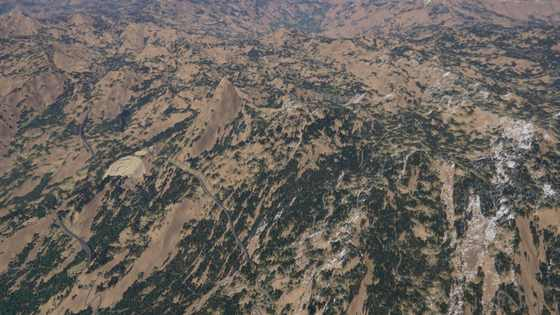
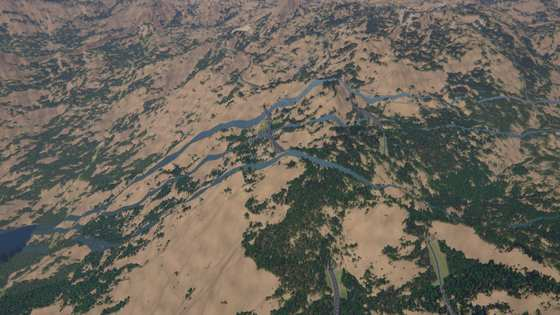
transport: stills (network, mountain motorway, interchange, lake, river crossing, river bridge, roundabout, forest roads, switchbacks), docs (routing, decisions, places, tests, timing, known limits), CHANGELOG

diff --git a/crates/terragen/src/kits/transport/tests.rs b/crates/terragen/src/kits/transport/tests.rs
@@ -1313,6 +1313,23 @@ fn stamps_near() {
         let g = geodesy::ecef2geodetic(st.center, &w.ell);
         eprintln!("stamp {} at ({:.5}, {:.5})", st.template, g.lat.to_degrees(), g.lon.to_degrees());
     }
+    // the segments near the point
+    let c = ecef(&w, v[0], v[1]);
+    for sg in f.segs.iter().filter(|sg| net::chord_dist(sg.a, sg.b, c) < 120.0) {
+        let g = geodesy::ecef2geodetic(c, &w.ell);
+        let t = w.terrain(&crate::world::Ctx::new(g.lat, g.lon, 5.0, &w.ell));
+        eprintln!(
+            "seg kind {} flags {:#x} deck {:.1} {:.1} at {:.0} m; ground {:.1} water {:.1} kind {}",
+            sg.kind - cls::KIND0,
+            sg.flags,
+            sg.deck_a,
+            sg.deck_b,
+            net::chord_dist(sg.a, sg.b, c),
+            t.ground,
+            t.water,
+            t.water_kind
+        );
+    }
     // interchange ramps: their centroids, in clusters of 1.5 km
     let mut cl: Vec<(DVec3, usize)> = Vec::new();
     for sg in f.segs.iter().filter(|s| s.kind == cls::KIND0 + cls::RAMP as u32) {

diff --git a/crates/terragen/src/kits/transport.rs b/crates/terragen/src/kits/transport.rs
@@ -3,7 +3,8 @@
 //! §6.3, §6.4, P2/P3; `docs/kits/transport.md`).
 //!
 //! * [`net`]: the graph (relative-neighbourhood graphs of places per network, track ends).
-//! * [`route`]: routing an edge over the analytic relief (corridor DP, smoothing, switchbacks).
+//! * [`route`]: routing an edge through its scene (the relief with the valleys carved in, lakes,
+//!   reservoirs, the sea, river crossings, site footprints; corridor DP, smoothing, switchbacks).
 //! * [`build`]: the features of an area: engineered profiles (cut and fill, bridges, tunnels),
 //!   segments, interchanges, roundabouts, stations, yards, roads and lines to the sites.
 //! * [`px`]: the looks per sample (shared by slot 6 and slot 8).

diff --git a/docs/kits/transport.md b/docs/kits/transport.md
@@ -47,8 +47,9 @@ edge has a *scene* of host knowledge along its corridor, the same on both backen
   basins of the streams, level 2, for minor roads); the cold kit's kettle and thermokarst lakes
   of its large lattice (its `lake_mask` estimated from pass A's values and the relief's slope);
   the settlements kit's reservoirs (below). Standing water costs 25–60 per metre on top of the
-  length, the sea 10–40; each step also measures its chord inside the lakes' outlines, so a
-  coarse step does not jump a lake between two dry nodes.
+  length, the sea 10–40; each step also measures its chord inside the lakes' outlines and,
+  where it is ≥ 300 m long and near a lake or reservoir, probes points along it, so a coarse
+  step does not jump a lake between two dry nodes.
 * **River crossings** (levels 0–1, in each level's meander-warped space): a cost per crossing
   of 100 m (tracks) … 600 m (motorways, railways) plus 12 per metre of bridge (the channel's
   width over the sine of the crossing angle, ≥ 0.25): few crossings, near perpendicular, and no
@@ -210,7 +211,13 @@ slot 7, the stamp look in the stamp loop, the deck look (`tr_deck_px`) in slot 8
 transport segment or stamp in the bin; per segment the distance to it before any look; slot 8
 only on rivers and water. The host routes an edge once (memoized per edge, per edge pair, per
 deck sample); a city's 25 km disc at 30 m pixels (some 100 k segments of all classes, profiles,
-crossings) takes 10–17 s on one CPU core the first time.
+crossings) takes 10–17 s on one CPU core the first time. Routing (`routing_time`: every edge
+near 8 regions, 10 km discs at 30 m pixels, cold caches, one farm core, both runs side by side):
+3480 routes in 22.8 s (6.5 ms each) before the water and sites, 4029 routes in 44.9 s (11.1 ms)
+now — 1.7× per route, and 16 % more edges per area from the wider deviation bound (the second
+try's 600 m, entries 600 m off the chord). Of it, the scenes (drainage, lakes) take 10–25 %, the
+analytic routes (probes with the carved valleys and the lakes, the check, the sampled steps
+near water) ~70 %, the sites stage 5–25 %.
 
 ## Stills
 
@@ -218,16 +225,24 @@ GPU-generated (`terrain survey --places`, default world, 10:30 local on the equi
 close views straight down, oblique from 1.5 km at 25°; the night view is the emission layer of
 `render_tiles`, square-root scale).
 
-**Road network** (−7.657, −16.630): motorway, trunk and secondary roads, local roads and tracks,
-a yard at the city's edge; **mountain motorway** (−23.754, −33.832): cuttings, a trumpet, winding
-secondary roads, a quarry.
+**Road network** (−7.657, −16.630): the motorway along the valley floor, trunk and secondary
+roads, local roads and tracks, a yard at the city's edge; **mountain motorway** (−23.720,
+−33.812): the motorway in cuttings, secondary roads keeping to the shores of a dendritic
+reservoir.
 ![network 1.5 km](images/transport_network_1500m.jpg)
 ![mountain motorway 1.5 km](images/transport_mountain_motorway_1500m.jpg)
 
-**Partial cloverleaf** in forest (−7.657, −16.630), cleared embankments; **switchbacks** on a
-snowy slope (−24.187, −33.361).
-![interchange 1.5 km](images/transport_interchange_1500m.jpg)
+**Interchange** (−7.648, −16.632): a motorway × trunk crossing at a shallow angle, the ramps
+running alongside, cleared verges; **switchbacks** on a snowy slope (−24.187, −33.361).
+![interchange 800 m](images/transport_interchange_800m.jpg)
 ![switchbacks 400 m](images/transport_switchbacks_400m.jpg)
+
+**Around a lake** (−7.486, −18.715): a major road bends round the lake's southern shore,
+local roads end on the shore where a hamlet's centre lies in the water; **river crossing**
+(−7.547, −18.796): two secondary roads cross a 134 m river side by side at the narrowest,
+square-on reach.
+![lake 800 m](images/transport_lake_800m.jpg)
+![river crossing 500 m](images/transport_river_crossing_500m.jpg)
 
 **River bridges** (−7.578, −18.746): a trunk road and a railway on decks over a 120 m river;
 **power line** through forest (−7.832, −18.800): the cleared corridor and pylons.
@@ -235,13 +250,14 @@ snowy slope (−24.187, −33.361).
 ![power line 800 m](images/transport_power_800m.jpg)
 
 **Yard** (−7.746, −18.797): the ladder, wagons, a motorway through the city; **station**
-(−7.730, −18.797): platforms with canopies next to a stadium.
+(−7.730, −18.797): platforms with canopies next to a stadium (earlier renders, as the power
+line and the night view).
 ![yard 800 m](images/transport_yard_800m.jpg)
 ![station 300 m](images/transport_station_300m.jpg)
 
-**Town edge** (−7.619, −16.609): two roundabouts where trunk and secondary roads enter, cars;
-the same roads through forest from 500 m.
-![roundabouts 250 m](images/transport_roundabouts_250m.jpg)
+**Town edge** (−7.623, −16.605): a roundabout where a secondary road enters, cars; a trunk
+road and a track through forest nearby (−7.619, −16.609) from 500 m.
+![roundabout 250 m](images/transport_roundabout_250m.jpg)
 ![forest roads 500 m](images/transport_forest_roads_500m.jpg)
 
 **Night** (emission, z13 near −7.70, −18.76): lit streets of the town and the lit road leaving it.
